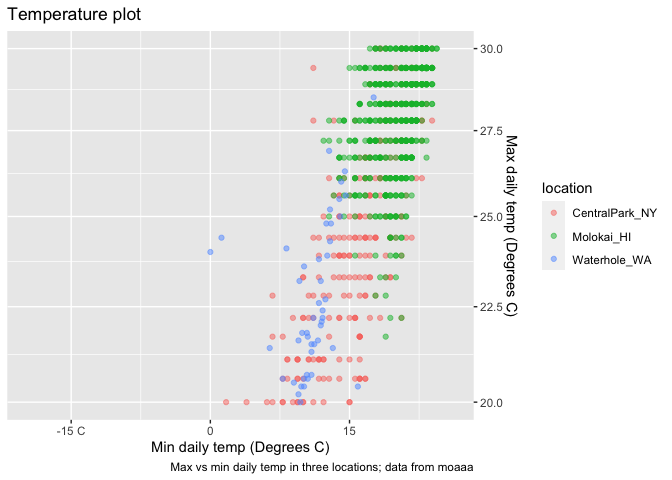
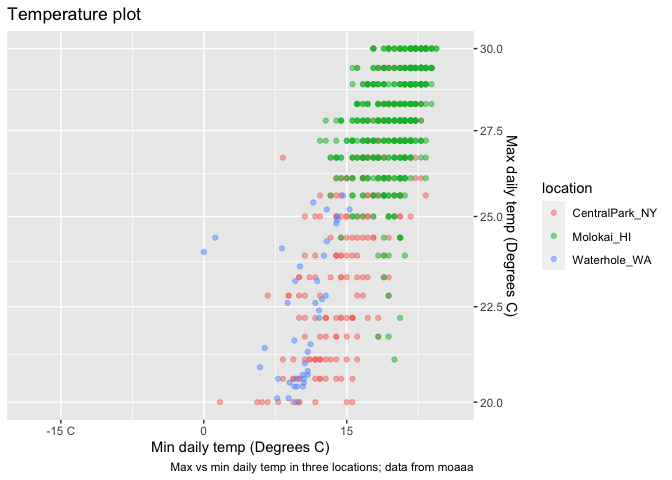
Viz part 2

diff --git a/Viz-part-2.md b/Viz-part-2.md
@@ -16,6 +16,10 @@ library(tidyverse)
     ## ✖ dplyr::lag()    masks stats::lag()
     ## ℹ Use the conflicted package (<http://conflicted.r-lib.org/>) to force all conflicts to become errors
 
+``` r
+library(patchwork)
+```
+
 —set the size and scale of plots in md shown up
 
 knitr::opts_chunk\$set( fig.width = 6, fig.asp = .6, out.width = “90%” )
@@ -27,8 +31,8 @@ weather_df =
   rnoaa::meteo_pull_monitors(
     c("USW00094728", "USW00022534", "USS0023B17S"),
     var = c("PRCP", "TMIN", "TMAX"), 
-    date_min = "2021-01-01",
-    date_max = "2022-12-31") |>
+    date_min = "2022-01-01",
+    date_max = "2023-12-31") |>
   mutate(
     name = recode(
       id, 
@@ -58,6 +62,8 @@ weather_df =
 
     ## file min/max dates: 1999-09-01 / 2023-10-31
 
+This results in a dataframe with 2007 obervations on six variables
+
 ## Same plot from last time
 
 ``` r
@@ -86,7 +92,7 @@ weather_df |>
 
     ## Warning: Transformation introduced infinite values in continuous y-axis
 
-    ## Warning: Removed 1227 rows containing missing values (`geom_point()`).
+    ## Warning: Removed 1197 rows containing missing values (`geom_point()`).
 
 ![](Viz-part-2_files/figure-gfm/unnamed-chunk-3-1.png)<!-- -->
 
@@ -106,10 +112,194 @@ weather_df |>
  viridis::scale_color_viridis(discrete = TRUE)
 ```
 
-    ## Warning: Removed 17 rows containing missing values (`geom_point()`).
+    ## Warning: Removed 105 rows containing missing values (`geom_point()`).
 
 ![](Viz-part-2_files/figure-gfm/unnamed-chunk-4-1.png)<!-- -->
 
 ``` r
   #use  viridis color package generally is better
 ```
+
+## Themes
+
+``` r
+weather_df |> 
+  ggplot(aes(x=tmin, y=tmax, color=name)) +
+  geom_point(alpha=0.5)+
+  labs(
+    title = "Temperature plot",
+    x= "Min daily temp (Degrees C)",
+    y= "Max daily temp (Degrees C)",
+    color = "location",
+    caption = "Max vs min daily temp in three locations; data from moaaa"
+  )+
+ viridis::scale_color_viridis(discrete = TRUE) +
+  theme_bw()+ #black white background;this is reset everything of theme, so put it in front of other theme instructions;theme_classi---removing grids;theme_minimal---b&w without boxline at the outside
+  theme(legend.position = "bottom") #moving notations to bottom
+```
+
+    ## Warning: Removed 105 rows containing missing values (`geom_point()`).
+
+![](Viz-part-2_files/figure-gfm/unnamed-chunk-5-1.png)<!-- -->
+
+## data argument…
+
+``` r
+weather_df |> 
+  ggplot(aes(x=date, y=tmax, color=name)) +
+  geom_point()+
+  geom_smooth()
+```
+
+    ## `geom_smooth()` using method = 'loess' and formula = 'y ~ x'
+
+    ## Warning: Removed 105 rows containing non-finite values (`stat_smooth()`).
+
+    ## Warning: Removed 105 rows containing missing values (`geom_point()`).
+
+![](Viz-part-2_files/figure-gfm/unnamed-chunk-6-1.png)<!-- -->
+
+``` r
+nyc_weather_df=
+  weather_df |> 
+  filter(name == "CentralPark_NY")
+
+hawaii_weather_df=
+  weather_df |> 
+  filter(name == "Molokai_HI")
+
+ggplot(nyc_weather_df,aes(x=date, y=tmax,color=name))+
+  geom_point()+
+  geom_line(data=hawaii_weather_df)
+```
+
+    ## Warning: Removed 30 rows containing missing values (`geom_point()`).
+
+    ## Warning: Removed 30 rows containing missing values (`geom_line()`).
+
+![](Viz-part-2_files/figure-gfm/unnamed-chunk-6-2.png)<!-- -->
+
+## `patchwork`
+
+``` r
+weather_df |> 
+  ggplot(aes(x=date, y=tmax, color=name)) +
+  geom_point()+
+  facet_grid(.~ name) #. no faceting on the rows, name faceting on the columns
+```
+
+    ## Warning: Removed 105 rows containing missing values (`geom_point()`).
+
+![](Viz-part-2_files/figure-gfm/unnamed-chunk-7-1.png)<!-- -->
+
+``` r
+ggp_temp_scatter =
+  weather_df |> 
+  ggplot(aes(x=tmin, y=tmax, color=name)) +
+  geom_point(alpha=0.5)+
+  theme(legend.position = "none") #no notations; if bottom,put on bottom
+
+
+ggp_prcp_density =
+  weather_df |> 
+  filter(prcp > 25) |> 
+  ggplot(aes(x=prcp, fill=name))+
+  geom_density(alpha = 0.5)+
+  theme(legend.position = "bottom")
+
+ggp_tmax_date=
+  weather_df |> 
+  ggplot(aes(x=date, y=tmax, color=name)) +
+  geom_point()+
+  geom_smooth(se = FALSE)+
+  theme(legend.position = "bottom")
+  
+
+(ggp_temp_scatter + ggp_prcp_density)/ggp_tmax_date # through patchwork package, put plots together
+```
+
+    ## Warning: Removed 105 rows containing missing values (`geom_point()`).
+
+    ## `geom_smooth()` using method = 'loess' and formula = 'y ~ x'
+
+    ## Warning: Removed 105 rows containing non-finite values (`stat_smooth()`).
+    ## Removed 105 rows containing missing values (`geom_point()`).
+
+![](Viz-part-2_files/figure-gfm/unnamed-chunk-8-1.png)<!-- -->
+
+## data manipulation
+
+``` r
+weather_df |> 
+  mutate(
+    name= fct_relevel(name,c("Molokai_HI", "CentralPark_NY", "Waterhole_WA"))
+  ) |> #reorder x axis in this order
+  ggplot(aes(x=name, y=tmax))+
+  geom_boxplot()
+```
+
+    ## Warning: Removed 105 rows containing non-finite values (`stat_boxplot()`).
+
+![](Viz-part-2_files/figure-gfm/unnamed-chunk-9-1.png)<!-- -->
+
+``` r
+weather_df |> 
+  mutate(
+    name = fct_reorder(name, tmax)
+  ) |> #reoder in tmax average order
+    ggplot(aes(x=name, y=tmax,color=name))+
+    geom_violin()
+```
+
+    ## Warning: There was 1 warning in `mutate()`.
+    ## ℹ In argument: `name = fct_reorder(name, tmax)`.
+    ## Caused by warning:
+    ## ! `fct_reorder()` removing 105 missing values.
+    ## ℹ Use `.na_rm = TRUE` to silence this message.
+    ## ℹ Use `.na_rm = FALSE` to preserve NAs.
+
+    ## Warning: Removed 105 rows containing non-finite values (`stat_ydensity()`).
+
+![](Viz-part-2_files/figure-gfm/unnamed-chunk-9-2.png)<!-- -->
+
+## complicate FAS plot
+
+``` r
+litters_df =
+  read_csv("data/FAS_litters.csv") |> 
+  janitor::clean_names() |> 
+  separate(group, into= c("dose", "day_of_tx"),sep=3)
+```
+
+    ## Rows: 49 Columns: 8
+    ## ── Column specification ────────────────────────────────────────────────────────
+    ## Delimiter: ","
+    ## chr (2): Group, Litter Number
+    ## dbl (6): GD0 weight, GD18 weight, GD of Birth, Pups born alive, Pups dead @ ...
+    ## 
+    ## ℹ Use `spec()` to retrieve the full column specification for this data.
+    ## ℹ Specify the column types or set `show_col_types = FALSE` to quiet this message.
+
+``` r
+pups_df=
+  read.csv("data/FAS_pups.csv") |> 
+    janitor::clean_names() 
+
+fas_df=
+  left_join(pups_df, litters_df, by = "litter_number")
+
+fas_df |> 
+ select(dose, day_of_tx, starts_with ("pd")) |> 
+ pivot_longer(
+   pd_ears:pd_walk,
+   names_to = "outcome",
+   values_to = "pn_day"
+ ) |> 
+  drop_na() |> 
+  mutate(outcome= fct_reorder(outcome, pn_day)) |> 
+  ggplot(aes(x=dose, y=pn_day)) +
+  geom_violin() +
+  facet_grid(day_of_tx ~ outcome)
+```
+
+![](Viz-part-2_files/figure-gfm/unnamed-chunk-10-1.png)<!-- -->
